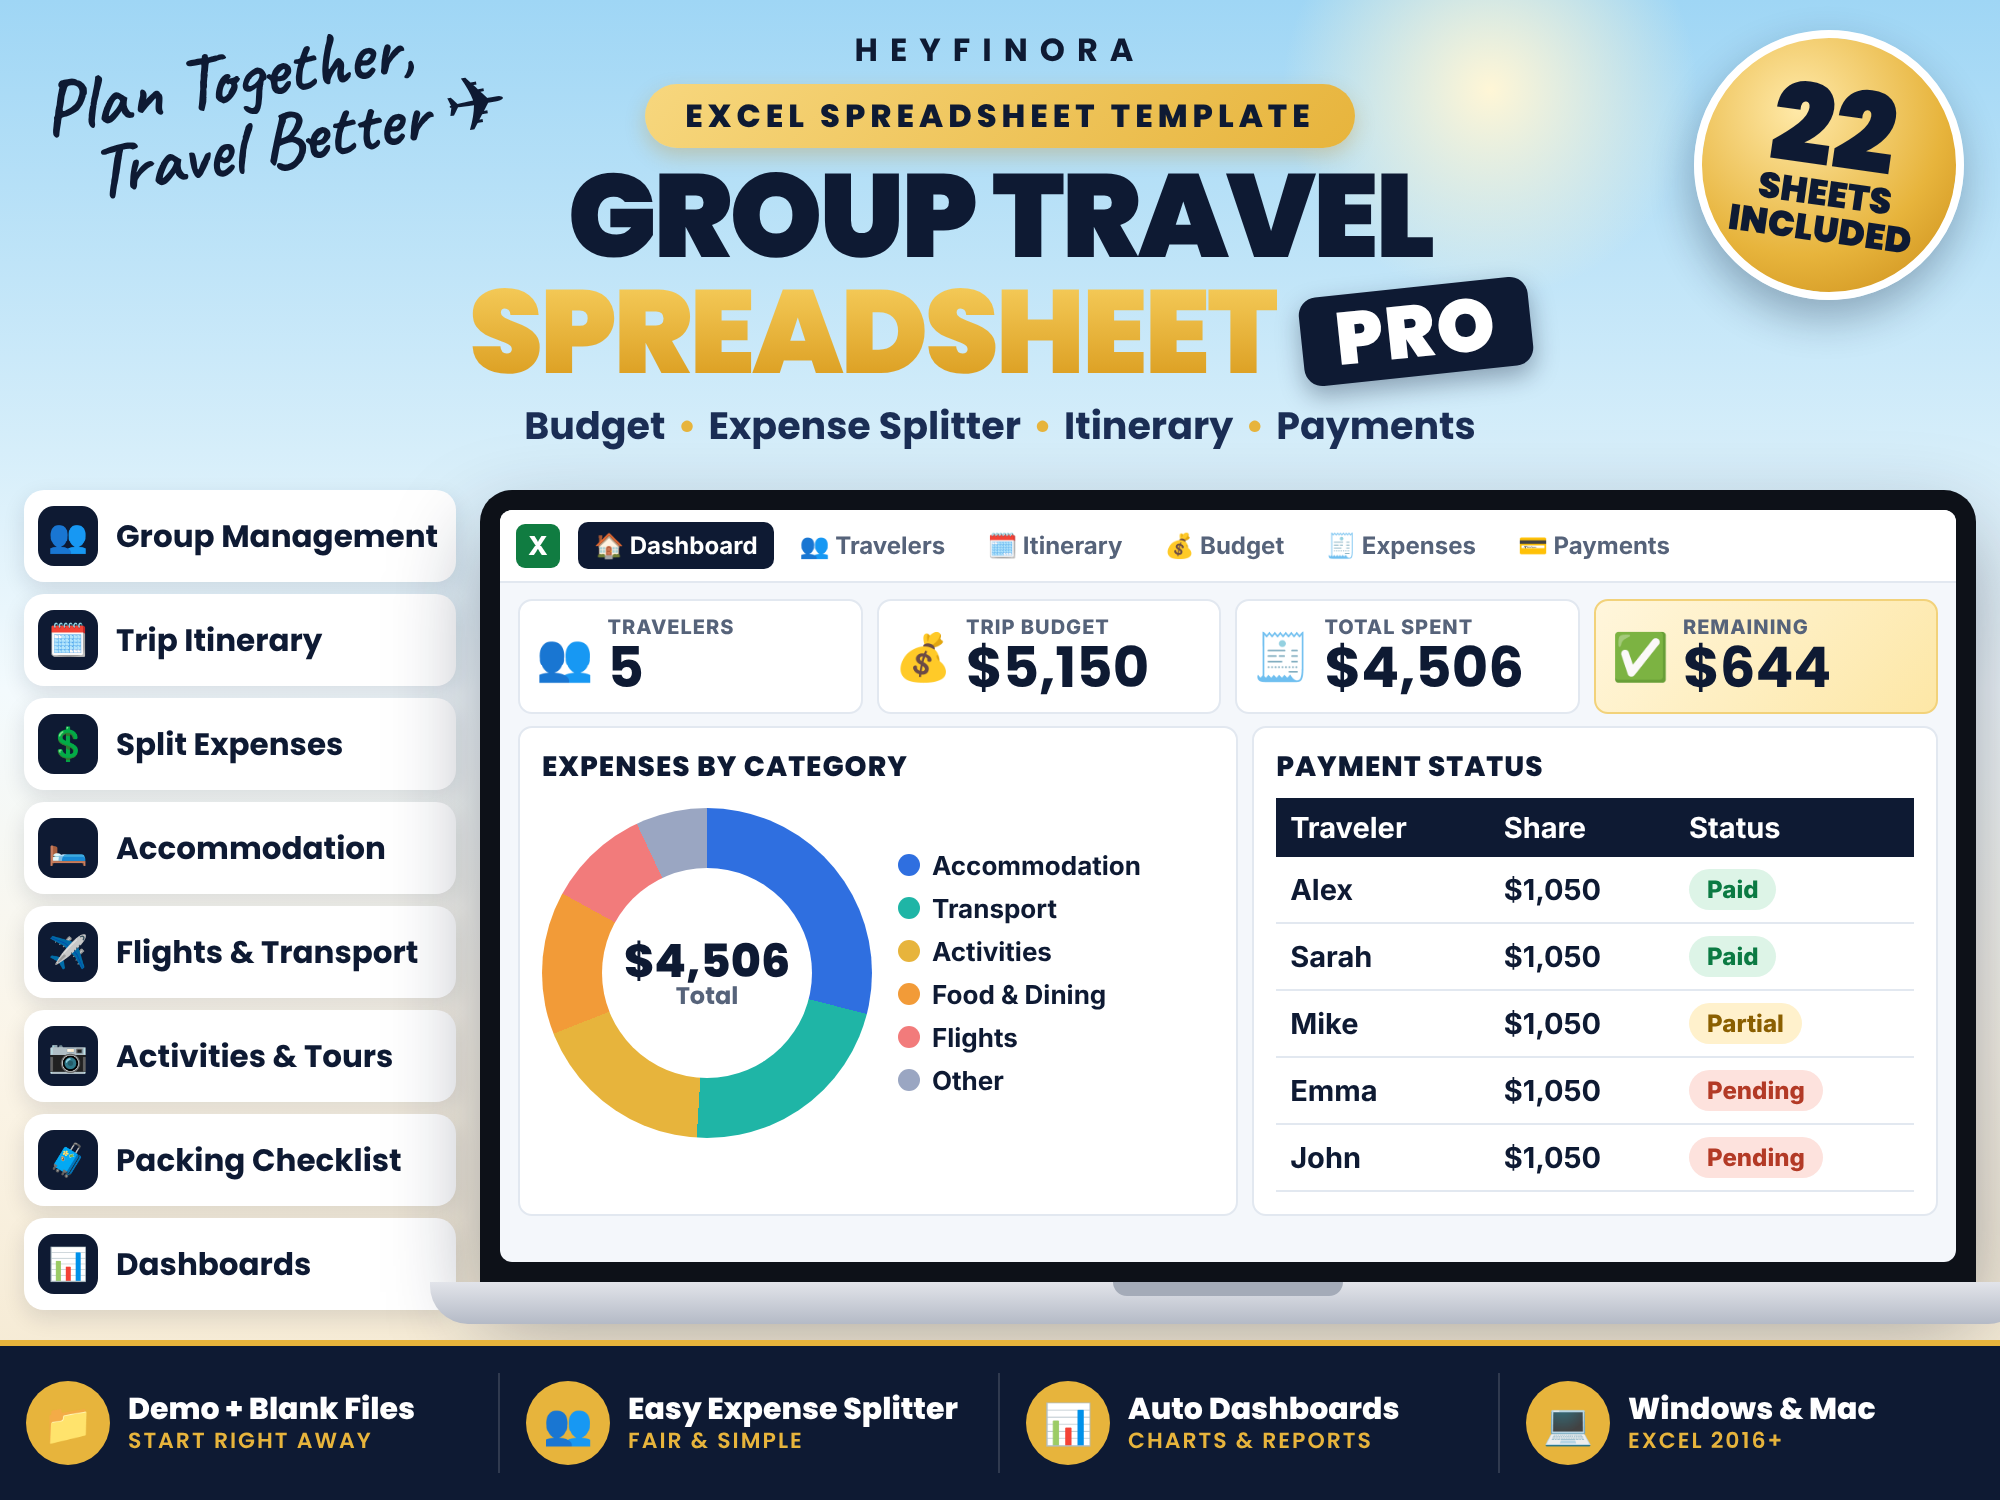
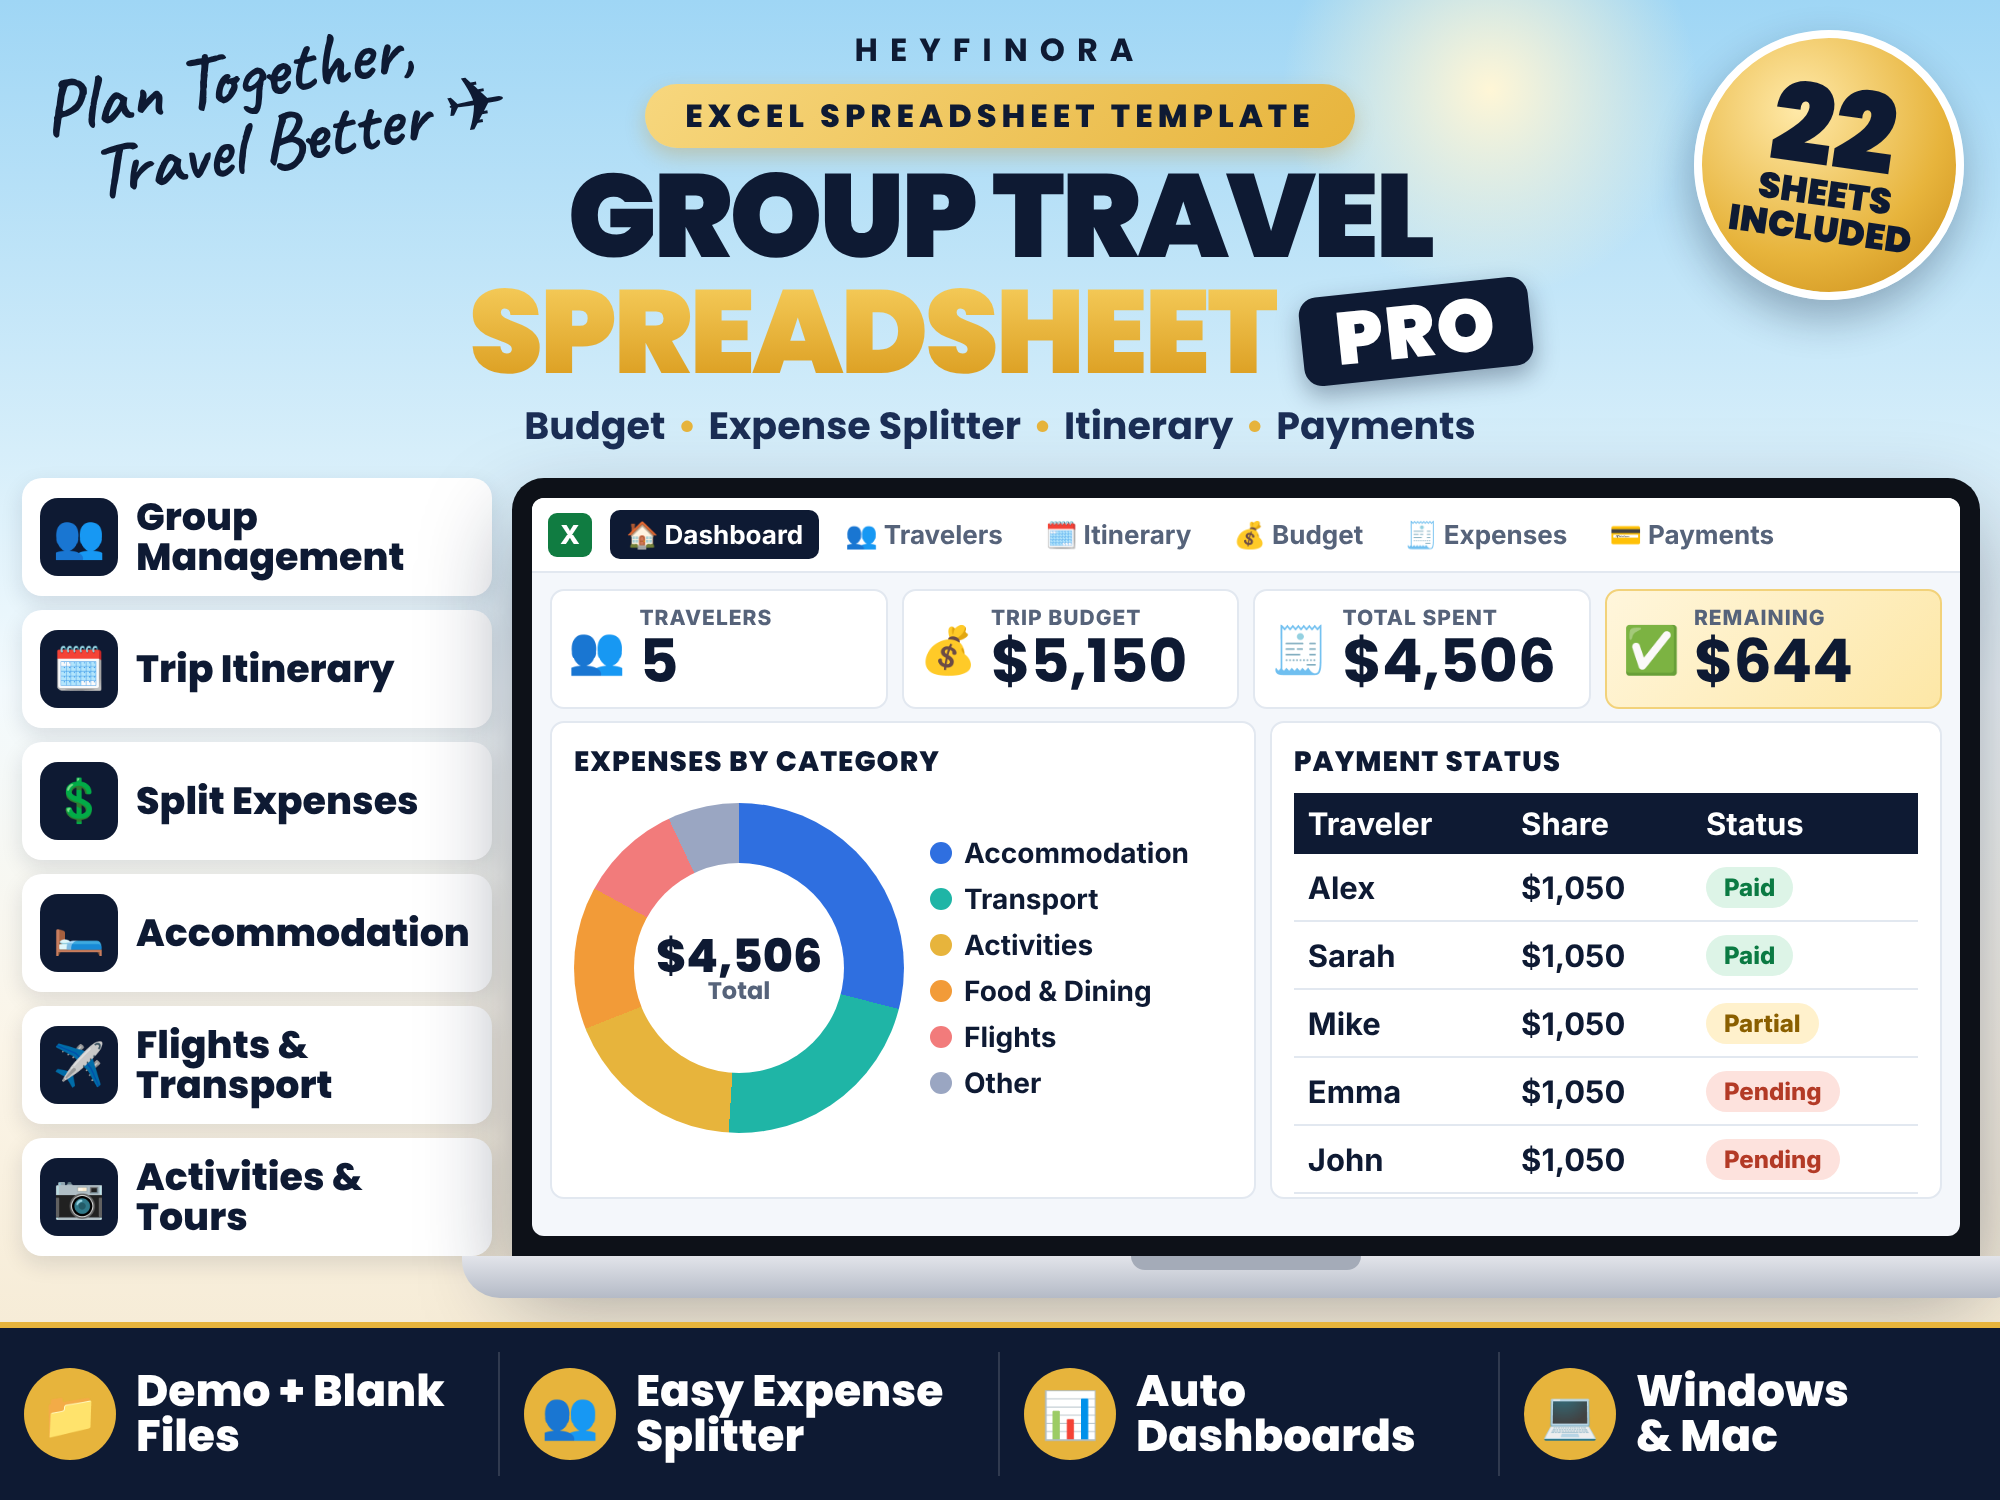
Group Travel thumbnail: bigger side and bottom text, more zoom
Claude-Session: https://claude.ai/code/session_01JXSyMovszCbL9FMwkaUbGU

Changed region(s): [[0.0, 0.3067, 1.0, 0.9813], [0.744, 0.6747, 0.806, 0.736]]

diff --git a/images/src/group-travel-thumbnail.html b/images/src/group-travel-thumbnail.html
@@ -22,41 +22,41 @@ h1 .pro{font-size:74px;background:var(--navy);color:#fff;padding:8px 34px;border
 .badge{position:absolute;right:36px;top:30px;width:270px;height:270px;border-radius:50%;background:radial-gradient(circle at 35% 30%,#FFE9A8,var(--gold) 60%,#C98A16);border:8px solid #fff;box-shadow:0 18px 40px rgba(14,26,51,.3);display:grid;place-items:center;text-align:center;color:var(--navy);transform:rotate(8deg)}
 .badge b{font-family:Poppins;font-weight:900;font-size:110px;line-height:.85;display:block}.badge span{font-family:Poppins;font-weight:900;font-size:36px;line-height:1;display:block}
 /* features */
-.feats{position:absolute;left:24px;top:490px;width:432px;display:flex;flex-direction:column;gap:12px}
-.f{display:flex;align-items:center;gap:18px;background:#fff;border-radius:20px;padding:12px 14px;height:92px;font-family:Poppins;font-weight:700;font-size:31px;color:var(--navy);box-shadow:0 8px 22px rgba(14,26,51,.12);white-space:nowrap}
-.f em{font-style:normal;width:60px;height:60px;border-radius:16px;background:var(--navy);display:grid;place-items:center;font-size:32px;flex:none}
+.feats{position:absolute;left:22px;top:478px;width:470px;display:flex;flex-direction:column;gap:14px}
+.f{display:flex;align-items:center;gap:18px;background:#fff;border-radius:20px;padding:12px 18px;height:118px;font-family:Poppins;font-weight:800;font-size:38px;line-height:1.05;color:var(--navy);box-shadow:0 8px 22px rgba(14,26,51,.12)}
+.f em{font-style:normal;width:78px;height:78px;border-radius:18px;background:var(--navy);display:grid;place-items:center;font-size:42px;flex:none}
 /* laptop */
-.laptop{position:absolute;left:480px;top:490px;width:1496px}
+.laptop{position:absolute;left:512px;top:478px;width:1468px}
 .screen{background:#0d1118;border-radius:32px 32px 0 0;padding:20px;box-shadow:0 40px 90px rgba(14,26,51,.4)}
 .base{height:42px;background:linear-gradient(#e2e4ea,#b4bac6);border-radius:0 0 38px 38px;margin:0 -50px;position:relative}
 .base:after{content:"";position:absolute;left:50%;top:0;transform:translateX(-50%);width:230px;height:14px;background:#a4abb8;border-radius:0 0 14px 14px}
-.app{background:#F4F7FB;border-radius:12px;height:752px;overflow:hidden}
+.app{background:#F4F7FB;border-radius:12px;height:738px;overflow:hidden}
 .tb{background:#fff;border-bottom:2px solid var(--line);display:flex;align-items:center;gap:10px;padding:12px 16px}
 .tb .xl{width:44px;height:44px;border-radius:9px;background:#107C41;color:#fff;font-weight:900;font-size:26px;display:grid;place-items:center;margin-right:8px}
-.tb span{font-size:24px;font-weight:700;color:var(--muted);padding:9px 16px;border-radius:10px;display:flex;gap:8px;align-items:center}
+.tb span{font-size:26px;font-weight:700;color:var(--muted);padding:9px 16px;border-radius:10px;display:flex;gap:8px;align-items:center}
 .tb .on{background:var(--navy);color:#fff}
 .kpis{display:grid;grid-template-columns:repeat(4,1fr);gap:14px;padding:16px 18px 12px}
 .k{background:#fff;border:2px solid var(--line);border-radius:14px;padding:14px 16px;display:flex;align-items:center;gap:14px}
 .k em{font-style:normal;font-size:46px}
-.k p{font-size:20px;font-weight:800;color:var(--muted);letter-spacing:1px}.k h3{font-family:Poppins;font-size:56px;line-height:1.05}
+.k p{font-size:21px;font-weight:800;color:var(--muted);letter-spacing:1px}.k h3{font-family:Poppins;font-size:60px;line-height:1.05}
 .cards{display:grid;grid-template-columns:1.05fr 1fr;gap:14px;padding:0 18px}
-.c{background:#fff;border:2px solid var(--line);border-radius:14px;padding:18px 22px;height:490px}
+.c{background:#fff;border:2px solid var(--line);border-radius:14px;padding:18px 22px;height:478px}
 .c h4{font-family:Poppins;font-weight:800;font-size:28px;letter-spacing:1px;margin-bottom:10px}
 .donut{width:330px;height:330px;border-radius:50%;background:conic-gradient(var(--blue) 0 29%,var(--teal) 0 51%,var(--gold) 0 69%,var(--orange) 0 83%,#F27B7B 0 93%,#9AA6C2 0);display:grid;place-items:center;flex:none}
 .donut div{width:210px;height:210px;border-radius:50%;background:#fff;display:grid;place-items:center;text-align:center;font-family:Poppins;font-weight:800;font-size:46px;line-height:1}
 .donut small{display:block;font-size:24px;color:var(--muted);font-weight:700}
 .dw{display:flex;align-items:center;gap:26px;margin-top:20px}
-.lg div{display:flex;align-items:center;gap:12px;font-size:26px;font-weight:700;margin:12px 0}.lg i{width:22px;height:22px;border-radius:50%;display:inline-block}
-table{width:100%;border-collapse:collapse;font-size:29px}
+.lg div{display:flex;align-items:center;gap:12px;font-size:28px;font-weight:700;margin:12px 0}.lg i{width:22px;height:22px;border-radius:50%;display:inline-block}
+table{width:100%;border-collapse:collapse;font-size:31px}
 th{background:var(--navy);color:#fff;text-align:left;padding:12px 14px;font-weight:700}
 td{padding:12px 14px;border-bottom:2px solid var(--line);font-weight:700}
 .ch{display:inline-block;padding:6px 18px;border-radius:999px;font-size:24px;font-weight:800}
 .paid{background:#DDF4E7;color:#0B7A43}.part{background:#FFF1CC;color:#8A5F00}.pend{background:#FDE2DD;color:#B33A26}
 /* strip */
-.strip{position:absolute;left:0;right:0;bottom:0;height:160px;background:var(--navy);display:grid;grid-template-columns:repeat(4,1fr);align-items:center;border-top:6px solid var(--gold)}
-.strip div{display:flex;align-items:center;gap:18px;padding:0 26px;border-right:2px solid rgba(255,255,255,.14);height:100px}.strip div:last-child{border:0}
-.strip em{font-style:normal;width:84px;height:84px;border-radius:50%;background:var(--gold);display:grid;place-items:center;font-size:40px;flex:none}
-.strip p{font-family:Poppins;font-weight:800;font-size:30px;line-height:1.1;color:#fff}.strip p span{display:block;font-weight:600;font-size:22px;color:var(--gold);letter-spacing:2px;margin-top:4px}
+.strip{position:absolute;left:0;right:0;bottom:0;height:178px;background:var(--navy);display:grid;grid-template-columns:repeat(4,1fr);align-items:center;border-top:6px solid var(--gold)}
+.strip div{display:flex;align-items:center;gap:20px;padding:0 24px;border-right:2px solid rgba(255,255,255,.14);height:124px}.strip div:last-child{border:0}
+.strip em{font-style:normal;width:92px;height:92px;border-radius:50%;background:var(--gold);display:grid;place-items:center;font-size:46px;flex:none}
+.strip p{font-family:Poppins;font-weight:800;font-size:44px;line-height:1.02;color:#fff}.strip p span{display:block;font-weight:600;font-size:22px;color:var(--gold);letter-spacing:2px;margin-top:4px}
 </style></head><body>
 <div id="thumb">
   <div class="sun"></div>
@@ -77,8 +77,6 @@ td{padding:12px 14px;border-bottom:2px solid var(--line);font-weight:700}
     <div class="f"><em>🛏</em>Accommodation</div>
     <div class="f"><em>✈</em>Flights &amp; Transport</div>
     <div class="f"><em>📷</em>Activities &amp; Tours</div>
-    <div class="f"><em>🧳</em>Packing Checklist</div>
-    <div class="f"><em>📊</em>Dashboards</div>
   </div>
 
   <div class="laptop">
@@ -118,10 +116,10 @@ td{padding:12px 14px;border-bottom:2px solid var(--line);font-weight:700}
   </div>
 
   <div class="strip">
-    <div><em>📁</em><p>Demo + Blank Files<span>START RIGHT AWAY</span></p></div>
-    <div><em>👥</em><p>Easy Expense Splitter<span>FAIR &amp; SIMPLE</span></p></div>
-    <div><em>📊</em><p>Auto Dashboards<span>CHARTS &amp; REPORTS</span></p></div>
-    <div><em>💻</em><p>Windows &amp; Mac<span>EXCEL 2016+</span></p></div>
+    <div><em>📁</em><p>Demo + Blank<br>Files</p></div>
+    <div><em>👥</em><p>Easy Expense<br>Splitter</p></div>
+    <div><em>📊</em><p>Auto<br>Dashboards</p></div>
+    <div><em>💻</em><p>Windows<br>&amp; Mac</p></div>
   </div>
 </div>
 </body></html>
